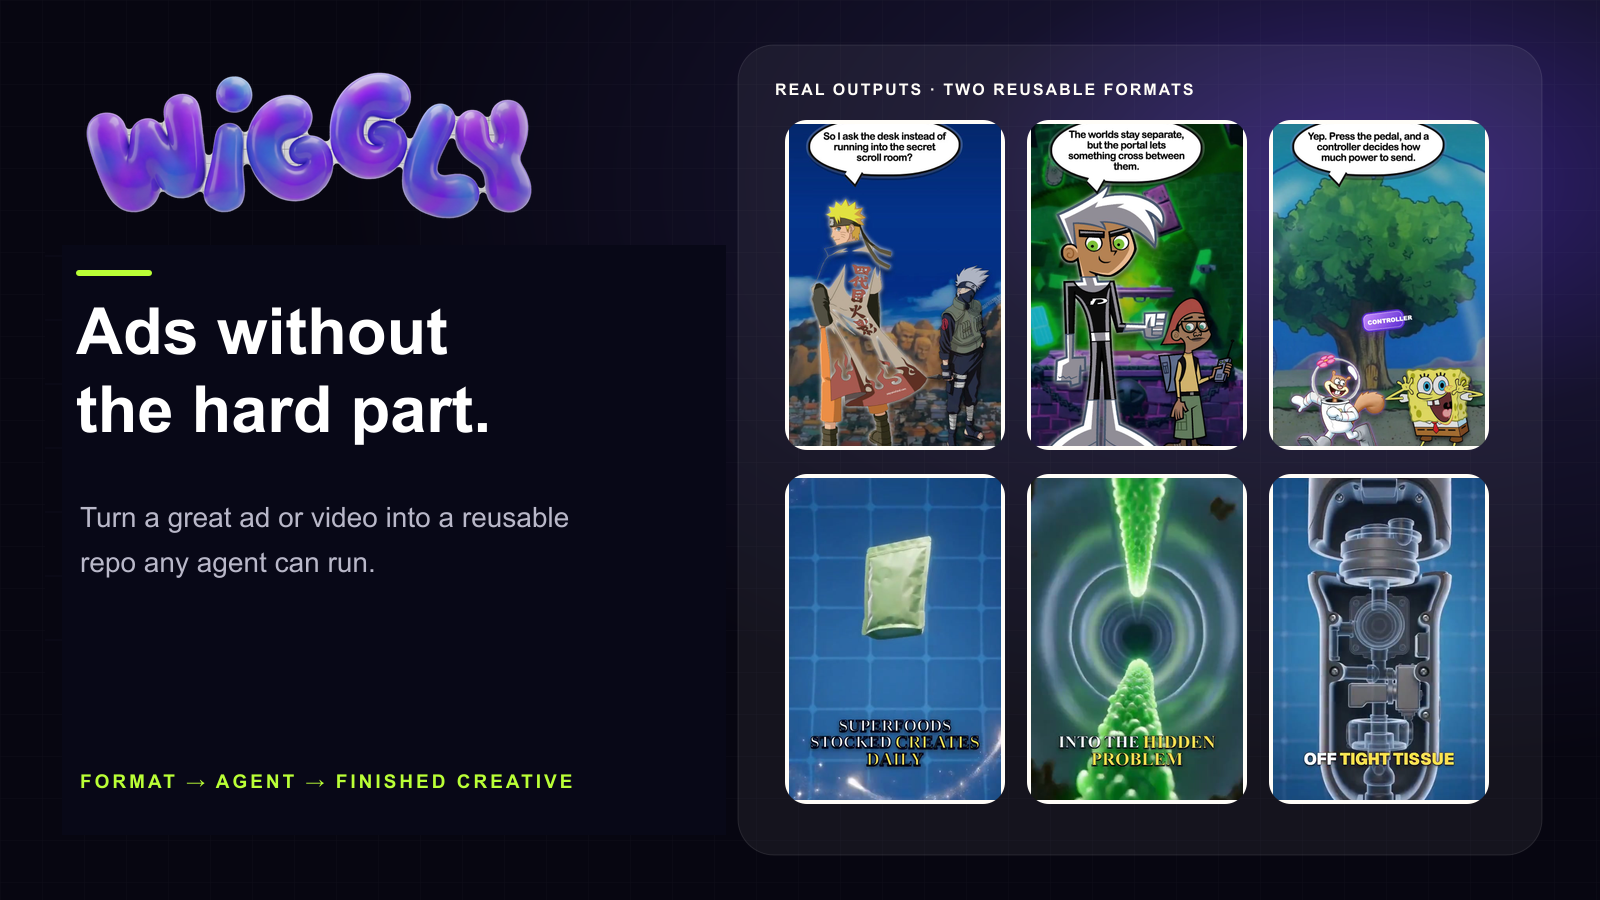
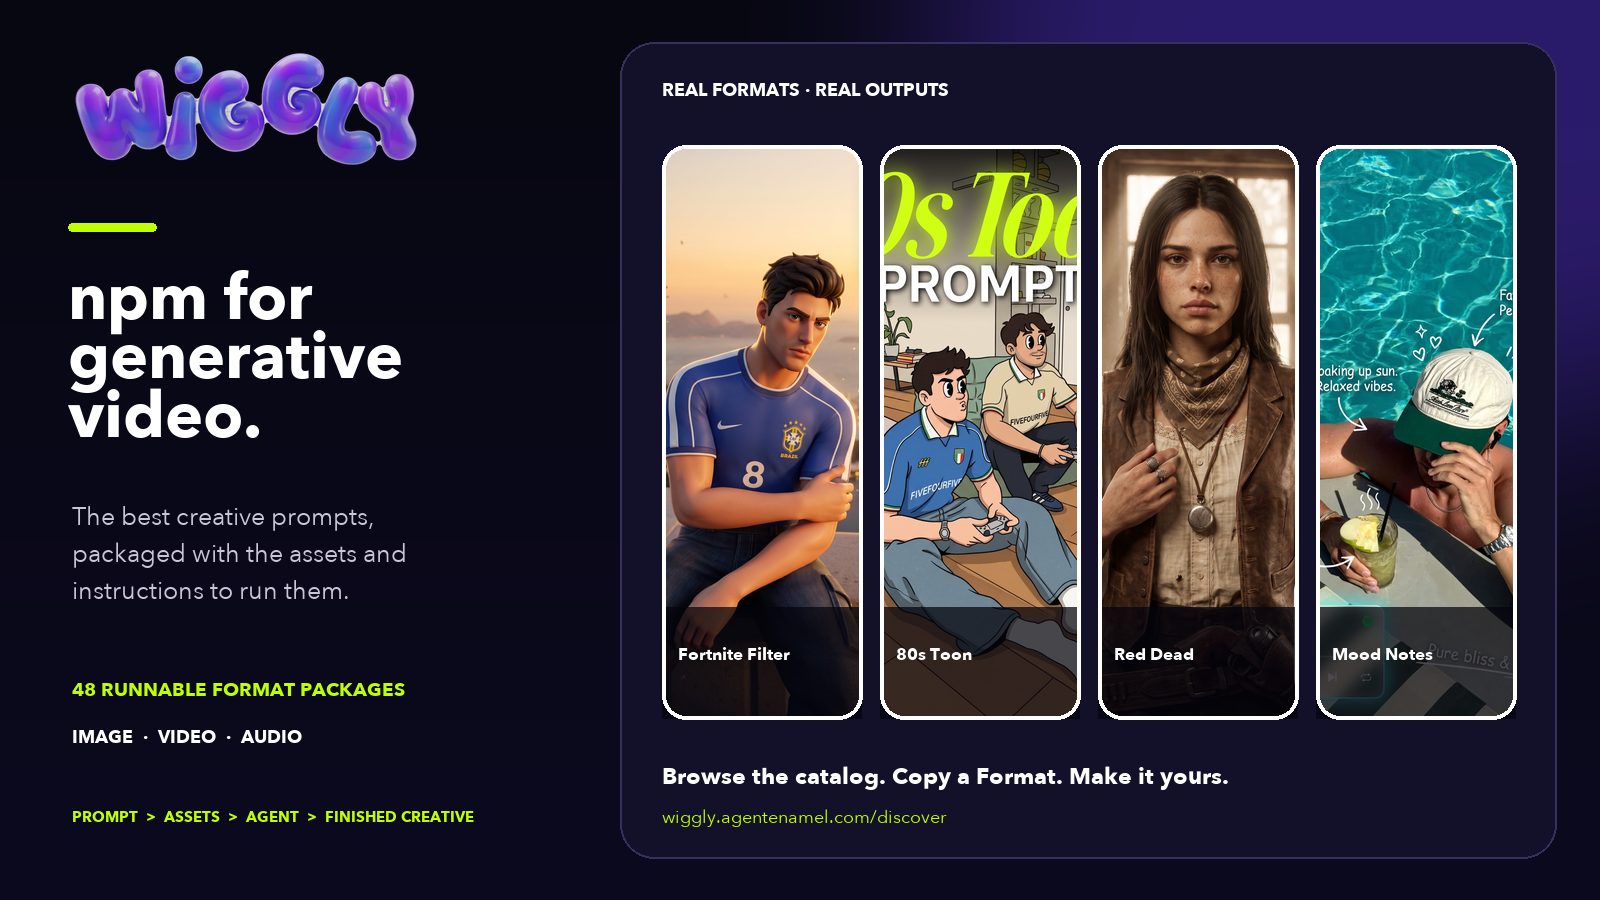
launch: position Wiggly as the generative format registry (#452)

diff --git a/v3/app/discover/page.tsx b/v3/app/discover/page.tsx
@@ -3,8 +3,8 @@ import { getPublishedDiscoveryEntries } from "@/features/discovery/catalog";
 import { DiscoveryClient } from "./DiscoveryClient";
 
 export const metadata: Metadata = {
-  title: "Discover Ads Worth Making | Wiggly",
-  description: "Watch finished ads and discover the repeatable Wiggly Formats behind them.",
+  title: "npm for Generative Video | Wiggly",
+  description: "Browse runnable creative Formats for image, video, and audio—complete with prompts, references, assets, instructions, and quality checks.",
 };
 
 export default function DiscoverPage() {

diff --git a/README.md b/README.md
@@ -1,106 +1,90 @@
 # Wiggly
 
 <p align="center">
-  <img src="docs/assets/github/hero.png" alt="Wiggly: Ads without the hard part, shown with six real outputs from two reusable Formats." width="100%">
+  <img src="docs/assets/github/hero.png" alt="Wiggly is npm for generative video: 48 runnable Format packages for image, video, and audio, with examples including Fortnite Filter, 80s Toon, Red Dead, and Mood Notes." width="100%">
 </p>
 
 <p align="center">
-  <strong>Ads without the hard part.</strong><br>
-  Find a Format. Hand it to your agent. Get the finished ad or video back.
+  <strong>npm for generative video.</strong><br>
+  The best creative prompts, packaged with the examples, assets, instructions, and checks needed to run them.
 </p>
 
 <p align="center">
-  <a href="https://wiggly.agentenamel.com">Open Wiggly</a>
+  <a href="https://wiggly.agentenamel.com/discover"><strong>Browse all Formats</strong></a>
   ·
-  <a href="https://wiggly.agentenamel.com/format-lab/cartoon-explainer">Run Cartoon Explainer</a>
+  <a href="https://wiggly.agentenamel.com/format-lab/fortnite-filter">Try Fortnite Filter</a>
   ·
-  <a href="https://wiggly.agentenamel.com/format-lab/three-d-breakdown">Run 3D Breakdown</a>
+  <a href="https://wiggly.agentenamel.com/format-lab/80s-toon">Try 80s Toon</a>
+  ·
+  <a href="https://wiggly.agentenamel.com/format-lab/three-d-breakdown">Try 3D Breakdown</a>
 </p>
 
-A great AI-made ad or video is more than a prompt. It has reference images,
-model settings, voices, music, timing, a renderer, and the small decisions that
-make everything work.
+Great generative work is scattered across Instagram, X, GitHub, and creator communities. Saving the prompt is not enough: the reference images, model choice, input rules, assets, run order, and quality bar are what make the result repeatable.
 
-A **Format** is the recipe for making one kind of creative. A **Wiggly Repo**
-packages that recipe with the assets, runner, and checks an agent needs to make
-the finished file.
+Wiggly gathers the Formats worth using and turns them into **runnable content packages**. Pick one, give it to your coding agent, and make your version without rebuilding the workflow from scratch.
 
-Hand the Repo to Claude, Codex, or another coding agent. It asks you for
-anything missing, uses the included runner, checks its work, and gives you the
-result.
+## Try a Format in 60 seconds
 
-## One Format made all six videos
+1. **[Browse the live catalog](https://wiggly.agentenamel.com/discover)** and choose a finished result you want to make.
+2. Open the Format to see its real examples, source attribution, exact prompt, model routes, and production rules.
+3. Download the runnable kit and give it to Claude, Codex, or another coding agent with your input.
 
-<p align="center">
-  <img src="docs/assets/github/proof-reel.gif" alt="The Cartoon Explainer Format running across Naruto, Danny Phantom, and SpongeBob, followed by the 3D Breakdown Format running across Kiala, Grüns, and Theragun." width="720">
-</p>
-
-We did not build these six videos one by one. **Cartoon Explainer** used the same
-renderer for Naruto, Danny Phantom, and SpongeBob. **3D Breakdown** used the
-same renderer for Kiala, Grüns, and Theragun.
-
-- **[Cartoon Explainer](https://wiggly.agentenamel.com/format-lab/cartoon-explainer)**
-  - Changed: characters, voices, backgrounds, and lesson.
-  - Reused: layouts, speech bubbles, pacing, renderer, and checks.
-- **[3D Breakdown](https://wiggly.agentenamel.com/format-lab/three-d-breakdown)**
-  - Changed: brand, product, story, images, and narration.
-  - Reused: production steps, blue 3D look, renderer, and checks.
-
-## Try it with your agent
-
-Copy this into Claude or Codex:
+For example:
 
 ```text
-Open https://wiggly.agentenamel.com/format-lab/cartoon-explainer
-and make SpongeBob explain how electric vehicles work.
-Use the included runner. Check the video before you send it back.
+Open https://wiggly.agentenamel.com/format-lab/fortnite-filter
+and use its runnable kit to turn my attached portrait into this Format.
+Follow the included checks and show me the inspected final image.
 ```
 
+Today Wiggly is bring-your-own-agent and bring-your-own-key. Paid model calls require your approval; every compatible Repo can validate and estimate before it spends.
+
+## What makes a Format runnable?
+
+A prompt tells a model what to make. A **Wiggly Repo** tells an agent how to finish the job.
+
+| Inside each Repo | What it does |
+| --- | --- |
+| Prompt and references | Preserve the creative idea and make the target visible. |
+| Input contract | Define what the user supplies and what can change. |
+| Model routes | Offer economy, default, and premium paths when available. |
+| Runner and assets | Turn the recipe into a repeatable production workflow. |
+| Validation and approval gates | Catch broken inputs and prevent surprise paid calls. |
+| Goldens and visual checks | Prove what good looks like before a result is finalized. |
+
+## 48 Format packages and counting
+
+### Image
+
+- **[Fortnite Filter](https://wiggly.agentenamel.com/format-lab/fortnite-filter)** — turn one portrait into a cinematic game character.
+- **[80s Toon](https://wiggly.agentenamel.com/format-lab/80s-toon)** — preserve a real scene in bold retro cartoon linework.
+- **[Red Dead Redemption](https://wiggly.agentenamel.com/format-lab/red-dead-redemption)** — rebuild a portrait as an atmospheric 1899 Western scene.
+- **[Mood Notes](https://wiggly.agentenamel.com/format-lab/mood-notes)** — turn a lifestyle photo into a handwritten visual journal.
+- **[GTA VI](https://wiggly.agentenamel.com/format-lab/gta-vi)** — move a portrait into a grounded neon open-world frame.
+- **[Browse 30+ image transformations](https://wiggly.agentenamel.com/discover)** gathered from creators such as [@skaigenerated](https://www.instagram.com/skaigenerated/), with source attribution preserved.
+
+### Video
+
+- **[Cartoon Explainer](https://wiggly.agentenamel.com/format-lab/cartoon-explainer)** — let familiar characters explain a real idea through their own story world.
+- **[3D Breakdown](https://wiggly.agentenamel.com/format-lab/three-d-breakdown)** — turn a brand story into a reviewed 20-second product explainer.
+- **[Talking Fish News](https://wiggly.agentenamel.com/format-lab/talking-fish-news)** — turn a sourced current story into a deadpan vertical report.
+- **[Bikini Bottom Dance Off](https://wiggly.agentenamel.com/format-lab/character-dance-lab)** — build replayable character choreography around a song excerpt.
+- **[Animal Conversations](https://wiggly.agentenamel.com/discover)** — stage user-supplied dialogue as expressive captioned character exchanges.
+
+### Audio
+
+- **[Brand Jingle](https://wiggly.agentenamel.com/format-lab/brand-jingle)** — turn one website or brief into an evidence-backed song and cover.
+- **[Audio Visualizer](https://wiggly.agentenamel.com/format-lab/visualizer)** — turn a buyer conversation into a branded waveform ad with two voices.
+
+## One Format, many finished results
+
 <p align="center">
-  <img src="docs/assets/github/agent-challenge.jpg" alt="A copyable agent instruction beside real SpongeBob, Naruto, and Danny Phantom outputs made from the Cartoon Explainer Wiggly Repo." width="100%">
+  <img src="docs/assets/github/proof-reel.gif" alt="The same Cartoon Explainer and 3D Breakdown Formats reused across six different finished videos." width="720">
 </p>
 
-That was the entire request. The Repo supplied the files, rules, renderer, and
-checks that produced the SpongeBob video above.
+The creative changes; the production knowledge stays reusable. Cartoon Explainer keeps its layouts, pacing, renderer, and checks while the characters and lesson change. 3D Breakdown keeps its planning and review loop while the brand, product, narration, and shots change.
 
-## What is inside a Wiggly Repo?
-
-<p align="center">
-  <img src="docs/assets/github/format-anatomy.svg" alt="A Wiggly Repo teaches the agent, defines the creative, packages production assets, and proves the result with quality checks." width="100%">
-</p>
-
-Every Format can work differently. A cartoon explainer should not be forced
-into the same box as a product breakdown or a static ad. But every agent needs
-five answers:
-
-- **What am I making?** The instructions and examples.
-- **What do I need from the user?** The inputs and API keys.
-- **What am I allowed to change?** The prompts, roles, scenes, and timing rules.
-- **Which files and tools must I use?** The assets, audio, dependencies, and renderer.
-- **How do I know it is good?** The finished examples and checks.
-
-## Make a good Format once. Let other people build on it.
-
-<p align="center">
-  <img src="docs/assets/github/format-flywheel.svg" alt="Build, publish, run, remix, improve, and contribute form the Wiggly Format flywheel." width="100%">
-</p>
-
-People should be able to publish a Format, make their own version, improve it,
-and share that work back. The next person should start with the better version
-instead of repeating the same mistakes.
-
-That is the part of GitHub we want to bring to creative work.
-
-## What you can run today
-
-- The live Wiggly app can read a store and turn what it finds into ad ideas.
-- Cartoon Explainer and 3D Breakdown are downloadable and come with their real runners.
-- Both have finished videos across different brands, characters, voices, and topics.
-- Both tell the agent what it needs and stop broken work from being called finished.
-
-These are working prototypes, not a finished marketplace. They prove the
-important part: an agent can pick up someone else's Format and run it without
-being taught every step.
+That is the GitHub idea applied to generative media: make a good Format once, then let the next person run it, remix it, and improve it.
 
 ## Run Wiggly locally
 
@@ -109,6 +93,12 @@ npm install
 npm run dev
 ```
 
-The v3 app starts at [`http://localhost:3020/create`](http://localhost:3020/create).
-See [Development](docs/development.md) for environment setup, runtime checks,
-architecture references, and deployment notes.
+The v3 app starts at [`http://localhost:3020/create`](http://localhost:3020/create). See [Development](docs/development.md) for environment setup, architecture, runtime checks, and deployment notes.
+
+## Help shape the registry
+
+Wiggly is an active public beta. If there is a creative workflow the world should be able to run, [request a Format](https://github.com/smsheik1/wiggly/issues/new). If you improve an existing Repo, open a pull request so the next person starts with the better version.
+
+<p align="center">
+  <strong><a href="https://wiggly.agentenamel.com/discover">Find your next Format →</a></strong>
+</p>
